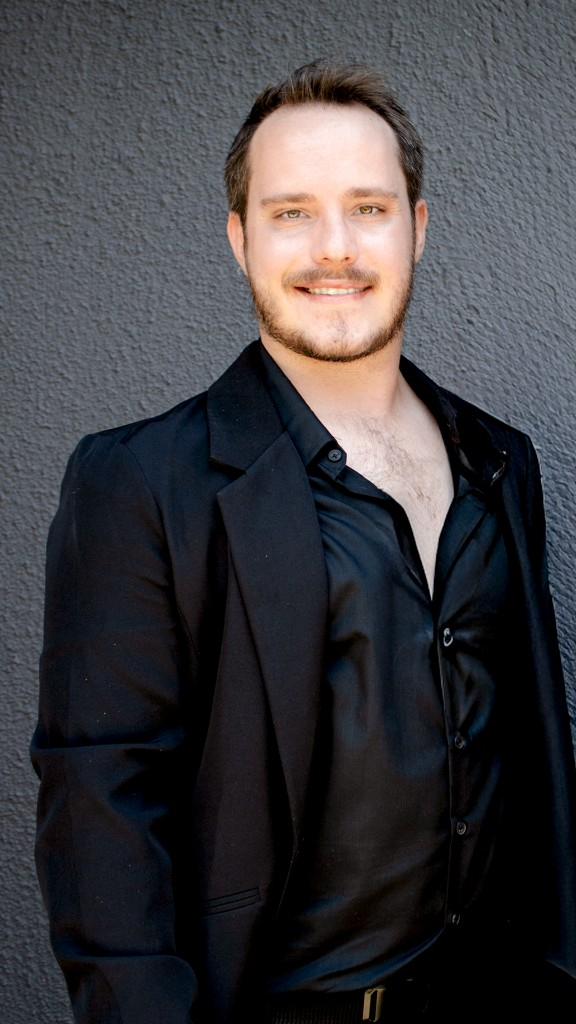
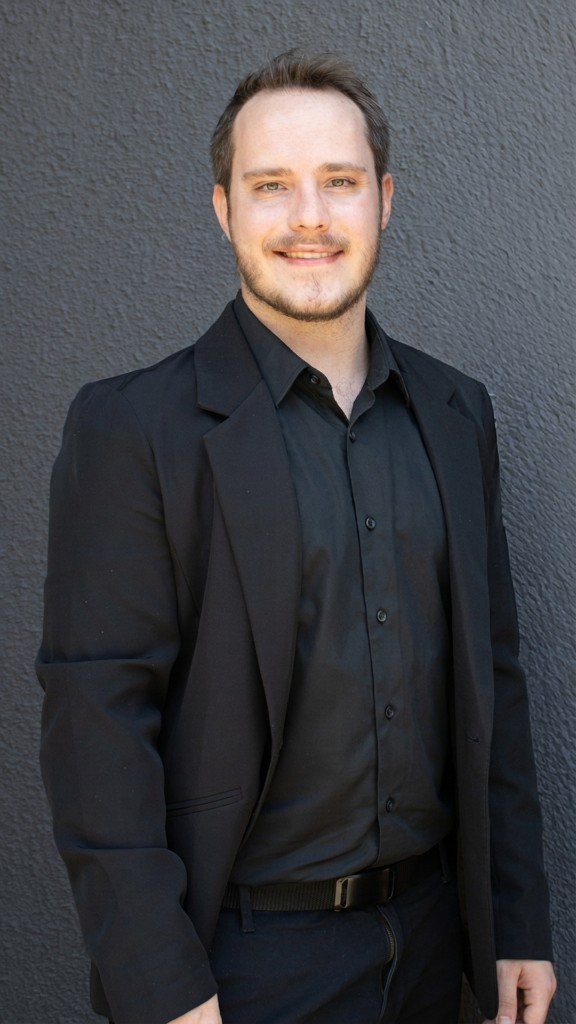
Apply the 28 Sep PowerPoint edits and put the new portraits on the landing and About pages.

diff --git a/project/js/content.js b/project/js/content.js
@@ -171,7 +171,7 @@ const CONTENT = {
     body: "Every lesson plan is written for your child specifically. Every tool, every interactive app, every 3D model is built around how they learn, not adjusted from a template built for millions of other children.",
     close: "The result is something most families have never had access to: the depth of a private education, with the technology of an EdTech studio, in a single relationship that travels with your family wherever you go. We are a governess and an instructional designer, working as one. Not a school. Not a platform.",
     photos: [
-      { file: "assets/photos/lesson-table.jpg", alt: "Anuscha planning the next part of a lesson", caption: "Anuscha, the lesson, on paper and in the plan", person: "anuscha" },
+      { file: "assets/photos/anuscha-planning.jpg", alt: "Anuscha planning a lesson at her desk", caption: "Anuscha, the lesson, on paper and in the plan", person: "anuscha" },
       { file: "assets/photos/jaco-working.jpeg", alt: "Jaco at his desk building learning materials", caption: "Jaco, the tools, built at the same table", person: "jaco" }
     ]
   },
@@ -199,12 +199,12 @@ const CONTENT = {
         "Like Anuscha, Jaco holds the same standard of discretion in a private household, with the trust of the family he has worked alongside for more than three years."
       ],
       credentials: [
-        "Diploma, 3D Animation & Visual Effects, Open Window Institute, 2018",
+        "National Certificate, 3D Animation & Visual Effects, Open Window Institute, 2018",
         "Valid passport",
         "Instructional design practice since 2018",
         "Senior Multimedia Designer, The Boiler Room, 2023 to present",
         "Real-time 3D (Unreal Engine) and custom production pipelines",
-        "TEFL Certificate, Udemy, in progress (will be done no later than end of October)",
+        "TEFL Certificate, Udemy, 2026",
         "Police Clearance Certificate, in progress (will be done no later than end of October)",
         "Driving permit, Category C1, eligible in the UK and Europe"
       ],
@@ -237,14 +237,14 @@ const CONTENT = {
       ],
       credentials: [
         "Bachelor of Education, Foundation Phase Teaching, STADIO Higher Education, 2021 to 2025",
-        "State Teaching License",
+        "SACE registered Teaching License",
         "Valid passport",
         "TEFL Certificate, The TEFL Academy, 2018",
         "Counselling and Child Psychology, Udemy, 2019",
         "Paediatric First Aid, Pretorius Institute of Medical Excellence, 2025",
         "Police Clearance Certificate, in progress (will be done no later than end of October)",
         "Driving permit, Category B, eligible in the UK and Europe",
-        "Completed the Davis Dyslexia Program under Jan Viljoen (Dyslexia Correction Practitioner, studied in the UK)"
+        "Completed the Davis Dyslexia Program under Jan Viljoen, licensed Davis Dyslexia Facilitator"
       ],
       languages: [
         { name: "English", level: "Fluent" },
@@ -269,7 +269,7 @@ const CONTENT = {
         text: "CAPS, IB, Cambridge, or IEB. Anuscha can read, interpret and apply it, rather than simply following a script. Jaco translates the lesson plan made with Anuscha into their educational app by creating custom teaching and learning tools.",
         visual: {
           kind: "frameworks",
-          plate: { file: "assets/photos/classroom.jpg", alt: "An empty classroom" },
+          plate: { file: "assets/photos/curriculum-books.jpg", alt: "Lesson books, a planner, and curriculum materials on the table" },
           cards: [
             { code: "CAPS", name: "South Africa", note: "National curriculum" },
             { code: "IB", name: "International", note: "Diploma programme" },
@@ -297,8 +297,8 @@ const CONTENT = {
             kicker: "EdTech",
             title: "The experience",
             note: "The lesson, on the app",
-            file: "assets/photos/educational-app.jpg",
-            alt: "A lesson open in the educational app",
+            file: "assets/photos/plant-demo.jpg",
+            alt: "A 3D flowering plant lesson in the educational app",
             fit: "contain"
           },
           proofs: [
@@ -323,7 +323,29 @@ const CONTENT = {
         }
       ]
     },
-    result: "The result is a lesson plan built on educational psychology and inclusive teaching, delivered through interactive, hands-on experiences designed to travel. When technology needs updating or troubleshooting, that support is built in. And if your child is unwell or unable to attend a lesson, recorded video lessons mean learning continues without interruption."
+    result: "The result is a lesson plan built on educational psychology and inclusive teaching, delivered through interactive, hands-on experiences designed to travel. When technology needs updating or troubleshooting, that support is built in. And if your child is unwell or unable to attend a lesson, recorded video lessons mean learning continues without interruption.",
+    process: {
+      heading: "How It Works",
+      steps: [
+        {
+          title: "Step 1: Understand",
+          text: "Anuscha reviews the chosen curriculum, how the child learns, and what the parents expect in the long term."
+        },
+        {
+          title: "Step 2: Plan & Design",
+          text: "Anuscha and Jaco plan the lesson together. Anuscha draws on her knowledge of educational psychology, inclusive education, and hands-on experience to ensure the right approach, resources, and activities are used, and that assessments comply with curriculum requirements. Jaco then builds a quick demo of the activity or lesson in minutes, which the two refine and adapt together."
+        },
+        {
+          title: "Step 3: Build",
+          text: "Jaco develops the final version within the educational app, ready for the child to use, and Anuscha tests it before it goes live."
+        },
+        {
+          title: "Step 4: Track & Adapt",
+          text: "The child completes the activity or assignment in the app, and the results are sent directly to Anuscha's progress tracker. From there, she decides whether the lesson needs to be revisited or the child is ready for more of a challenge. While travelling, the app also helps the child practise and strengthen specific areas of weakness."
+        }
+      ],
+      note: "The time it takes to plan a lesson depends on its depth and complexity. However, building new resources and adding new lessons to the app typically takes less than an hour, using nothing more than a single laptop."
+    }
   },
 
   together: {
@@ -357,7 +379,7 @@ const CONTENT = {
   studio: {
     eyebrow: "Introduction to the educational app",
     heading: "A studio built for one child, then proved in the lesson",
-    intro: "The educational app is the classroom tool Jaco builds from the lesson plan he and Anuscha write together. She sets the outcomes. He turns them into custom teaching and learning tools, including diagrams a learner can turn in 3D. The screen below is a preview of how a learner studies. Under it, a short demo of a 3D question.",
+    intro: "The educational app is the classroom tool Jaco builds from the lesson plan he and Anuscha write together. She sets the outcomes. He turns them into custom teaching and learning tools, including diagrams a learner can turn in 3D. The demo below is a short 3D question from a science lesson.",
     steps: [],
     notes: [
       { title: "Bilingual by design", text: "All school activities' language can be changed to practice vocabulary and grammar in the chosen language." },
@@ -393,7 +415,7 @@ const CONTENT = {
 
   learn: {
     kicker: "How learning looks on the app",
-    lead: "A preview only. This is the screen a learner uses for lessons, practice, and progress. No learner name is shown.",
+    lead: "A preview only. This is the screen a learner uses for lessons, practice, and progress.",
     grade: "Grade 5",
     side: ["This Week", "Lessons", "Assessments", "Guidance Sessions", "Calendar", "Progress and Reports", "Resources", "Library"],
     subjects: [
@@ -654,19 +676,13 @@ const CONTENT = {
     { type: "photo", file: "at-the-table.jpg", caption: "Around the table", person: "anuscha" },
     { type: "photo", file: "at-the-grill.jpg", caption: "At the grill", person: "joint" },
     { type: "photo", file: "barbecue.jpg", caption: "Cooking outdoors", person: "joint" },
-    { type: "photo", file: "at-the-screen.jpg", caption: "At the computer", person: "joint" },
-    { type: "photo", file: "playground.jpg", caption: "Outside play", person: "joint" },
     { type: "photo", file: "with-a-calf.jpg", caption: "On the farm", person: "joint" },
     { type: "photo", file: "at-the-fence.jpg", caption: "Meeting the calf", person: "joint" },
     { type: "photo", file: "rafting-group.jpg", caption: "On the river", person: "joint" },
     { type: "photo", file: "anuscha-graduation.jpeg", caption: "Anuscha, B.Ed Foundation Phase", person: "anuscha" },
     { type: "photo", file: "jaco-graduation.jpg", caption: "Jaco, 3D Animation and Visual Effects", person: "jaco" },
     { type: "photo", file: "jaco-archery.jpg", caption: "Sport and discipline, in the field", person: "jaco" },
-    { type: "photo", file: "jaco-boat-dog.jpg", caption: "On the boat, with the dog", person: "jaco" },
-    { type: "photo", file: "jaco-boat-crew.jpg", caption: "In the water beside the boat", person: "jaco" },
     { type: "photo", file: "jaco-mud.jpg", caption: "Through the mud", person: "jaco" },
-    { type: "photo", file: "jaco-obstacle.jpg", caption: "On the obstacle course", person: "jaco" },
-    { type: "photo", file: "jaco-water-net.jpg", caption: "Across the water", person: "jaco" },
     { type: "photo", file: "jaco-snorkel.jpg", caption: "In the sea", person: "jaco" }
   ],
 
@@ -683,7 +699,7 @@ const CONTENT = {
       { label: "Driving permit, Category B, UK & Europe", person: "anuscha" },
       { label: "Police clearance in progress", person: "jaco" },
       { label: "Police clearance in progress", person: "anuscha" },
-      { label: "TEFL in progress", person: "jaco" },
+      { label: "TEFL, 2026", person: "jaco" },
       { label: "TEFL certified", person: "anuscha" },
       { label: "Paediatric First Aid", person: "anuscha" },
       { label: "IB curriculum training", person: "anuscha" },

diff --git a/project/index.html b/project/index.html
@@ -13,8 +13,8 @@
 <link rel="preconnect" href="https://fonts.googleapis.com">
 <link rel="preconnect" href="https://fonts.gstatic.com" crossorigin>
 <link href="https://fonts.googleapis.com/css2?family=Fraunces:opsz,wght@9..144,400;9..144,500;9..144,600;9..144,700&family=IBM+Plex+Sans:wght@400;500;600&display=swap" rel="stylesheet">
-<link rel="stylesheet" href="css/style.css?v=63">
-<link rel="stylesheet" href="css/cinematic.css?v=97">
+<link rel="stylesheet" href="css/style.css?v=64">
+<link rel="stylesheet" href="css/cinematic.css?v=98">
 </head>
 <body class="is-loading">
 
@@ -149,6 +149,11 @@
         <ol class="rhythm" id="rhythm"></ol>
       </div>
     </div>
+    <div class="process" id="process">
+      <h3 id="processHeading"></h3>
+      <ol class="process-steps" id="processSteps"></ol>
+      <p class="process-note" id="processNote"></p>
+    </div>
     <div class="ledger">
       <div class="ledger-col ledger-col--anuscha" data-person="anuscha">
         <h3 id="classroomAnuschaName"></h3>
@@ -180,15 +185,6 @@
       <img id="classroomStillImg" alt="A laptop open on a desk, with software code on the screen" src="assets/photos/lesson-tech.jpg" width="2000" height="1333">
       <figcaption id="classroomStillCap"></figcaption>
     </figure>
-    <div class="learn-stage" id="learnStage">
-      <canvas class="learn-bg" id="learnBg" aria-hidden="true"></canvas>
-      <div class="learn-veil" aria-hidden="true"></div>
-      <div class="learn-stage-copy">
-        <p class="learn-kicker" id="learnKicker"></p>
-        <p class="learn-lead" id="learnLead"></p>
-      </div>
-      <div class="lms" id="learnApp" aria-label="Learning app preview"></div>
-    </div>
     <div class="studio-proof">
       <ul class="studio-notes" id="studioNotes"></ul>
       <div class="studio-lab">
@@ -305,7 +301,7 @@
   }
 }
 </script>
-<script src="js/content.js?v=81"></script>
-<script type="module" src="js/main.js?v=97"></script>
+<script src="js/content.js?v=82"></script>
+<script type="module" src="js/main.js?v=98"></script>
 </body>
 </html>

diff --git a/project/js/main.js b/project/js/main.js
@@ -9,9 +9,8 @@ import { initOrrery } from "./orrery.js?v=60";
 import { initStudio } from "./studio.js?v=34";
 import { initChamber } from "./chamber.js?v=54";
 import { initCinematic } from "./cinematic.js?v=53";
-import { initLearn } from "./learn.js?v=48";
 
-const PHOTO_V = "v=59";
+const PHOTO_V = "v=60";
 const photoSrc = (src) => (src && !src.includes("?") ? `${src}?${PHOTO_V}` : src);
 const $ = (sel, root = document) => root.querySelector(sel);
 const el = (tag, cls, html) => {
@@ -548,6 +547,17 @@ function renderClassroom() {
   };
   renderRows("classroomJacoRows", CONTENT.classroom.columns.jaco);
   renderRows("classroomAnuschaRows", CONTENT.classroom.columns.anuscha);
+  const process = c.process;
+  if (process) {
+    if ($("#processHeading")) $("#processHeading").textContent = process.heading || "";
+    const steps = $("#processSteps");
+    if (steps) {
+      (process.steps || []).forEach((step) => {
+        steps.appendChild(el("li", "process-step", `<h4>${step.title}</h4><p>${step.text}</p>`));
+      });
+    }
+    if ($("#processNote")) $("#processNote").textContent = process.note || "";
+  }
   renderCurriculum();
 }
 
@@ -661,13 +671,6 @@ function renderStudio() {
     still.alt = room.alt;
     const cap = $("#classroomStillCap");
     if (cap) cap.textContent = room.caption;
-  }
-  if (CONTENT.learn) {
-    const kicker = $("#learnKicker");
-    const lead = $("#learnLead");
-    if (kicker) kicker.textContent = CONTENT.learn.kicker;
-    if (lead) lead.textContent = CONTENT.learn.lead;
-    initLearn($("#learnApp"), $("#learnBg"), CONTENT.learn, still);
   }
   return api;
 }

diff --git a/project/css/style.css b/project/css/style.css
@@ -293,6 +293,47 @@ section h2{ font-size: clamp(1.7rem, 3vw, 2.3rem); margin-bottom: 1rem; }
   padding-top: 1.5rem; border-top: 1px solid var(--brass-line);
   text-align: center;
 }
+.process{
+  margin: 2.8rem 0 1.6rem;
+  max-width: 72ch;
+}
+.process h3{
+  font-size: clamp(1.85rem, 4vw, 2.7rem);
+  margin: 0 0 1.35rem;
+  letter-spacing: -.02em;
+}
+.process-steps{
+  list-style: none;
+  margin: 0;
+  padding: 0;
+  display: flex;
+  flex-direction: column;
+  gap: 1.15rem;
+}
+.process-step{
+  padding-top: 1.05rem;
+  border-top: 1px solid var(--brass-line);
+}
+.process-step h4{
+  font-family: var(--sans);
+  font-size: .86rem;
+  letter-spacing: .12em;
+  text-transform: uppercase;
+  margin: 0 0 .4rem;
+  color: var(--oxblood);
+}
+.process-step p{
+  margin: 0;
+  color: var(--ink-soft);
+  font-size: 1.02rem;
+  line-height: 1.6;
+}
+.process-note{
+  margin: 1.5rem 0 0;
+  color: var(--ink-faint);
+  font-size: .98rem;
+  line-height: 1.55;
+}
 
 /* =========================================================================
    ALTERNATIVE / TOGETHER

diff --git a/project/css/cinematic.css b/project/css/cinematic.css
@@ -1065,7 +1065,7 @@ body.is-chapters canvas{
 .lesson-plate{
   position: relative;
   margin: 0;
-  height: 128px;
+  height: 168px;
   flex: 0 0 auto;
   border-radius: 14px;
   overflow: hidden;
